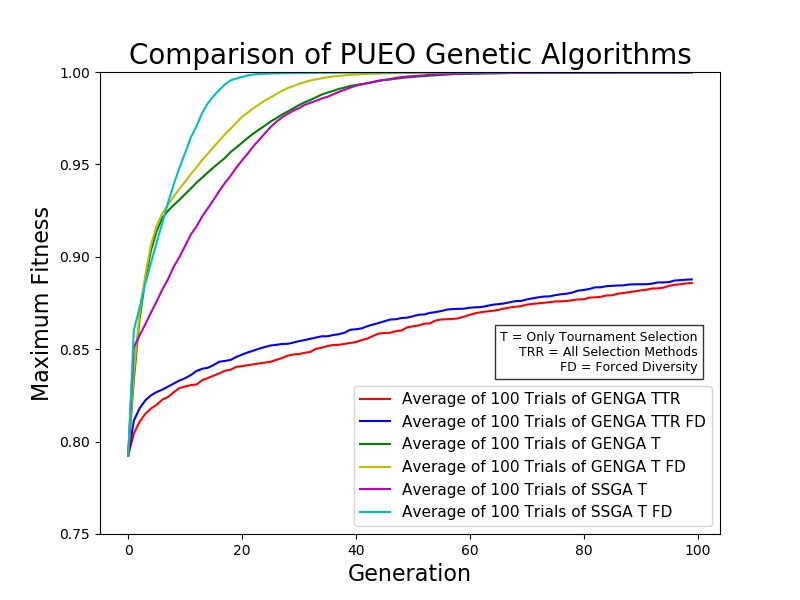
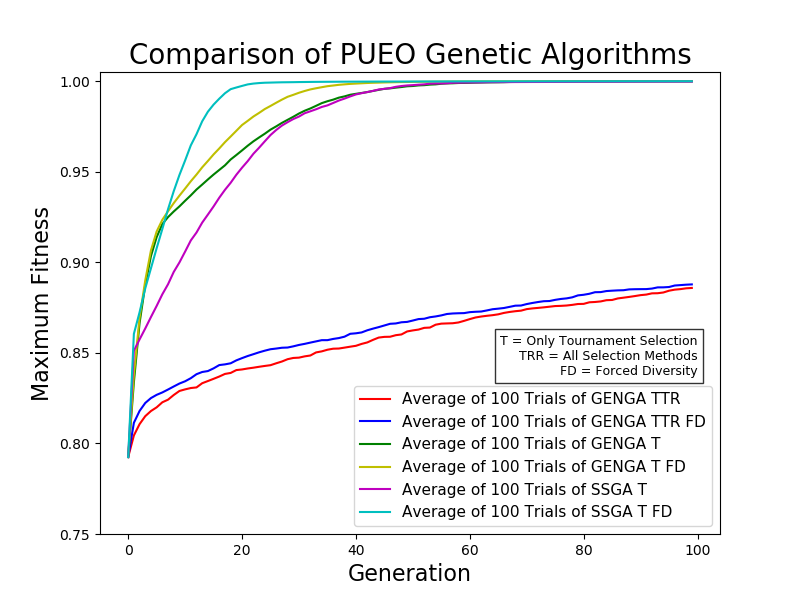
remove png from wrong fitness score

diff --git a/test_loop_plotter.py b/test_loop_plotter.py
@@ -75,7 +75,7 @@ def plot_averages(run_name_list, plot_name_list, count):
     
     plt.legend(handles=color_lines, fontsize=11)
     
-    plt.ylim(0.75, 1.0)
+    plt.ylim(0.75, 1.005)
     
     save_name = "all_comparisons_new"
     
